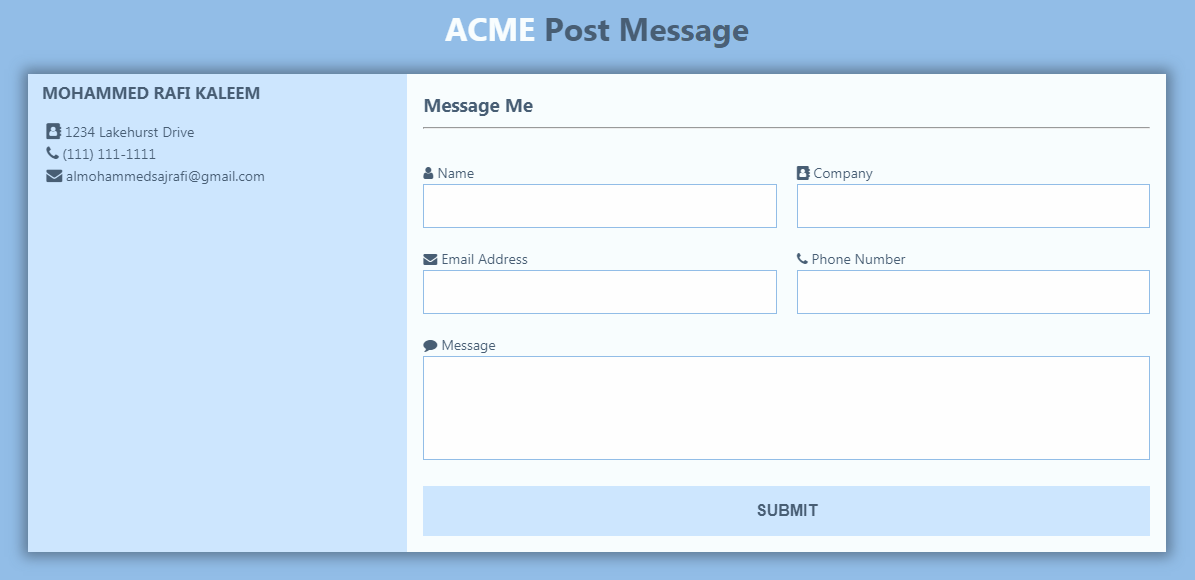
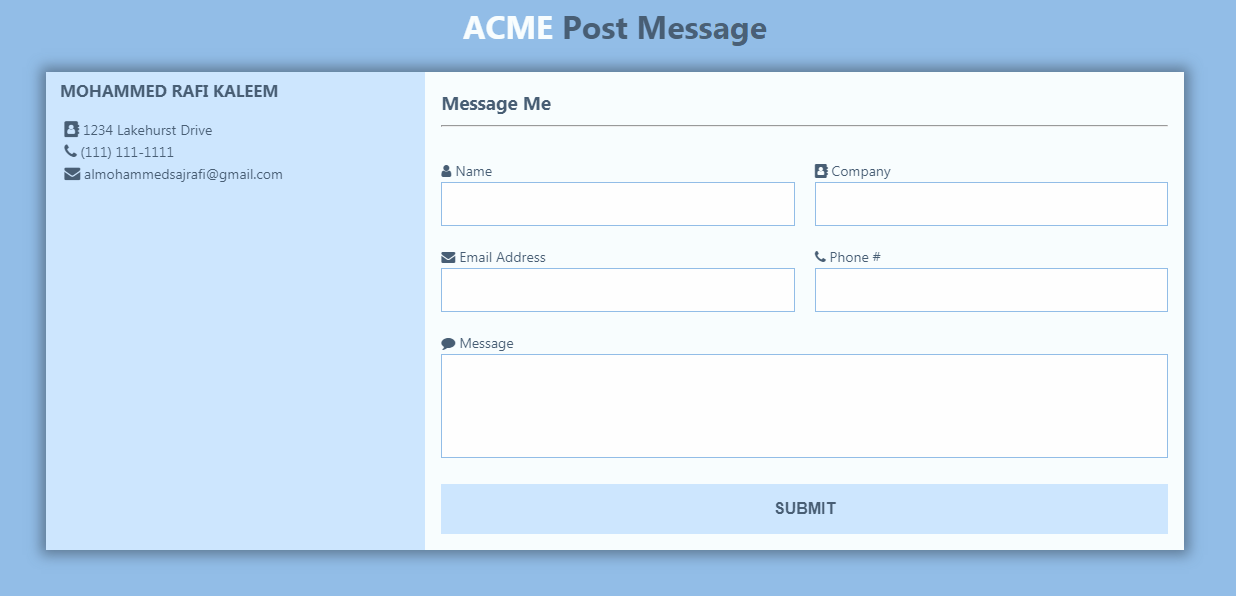
Updated the layout changes

Changed region(s): [[0.0, 0.0, 0.9908, 0.9931], [0.6502, 0.2793, 0.7431, 0.3103], [0.6192, 0.3103, 0.6502, 0.3414]]

diff --git a/styles.css b/styles.css
@@ -79,9 +79,12 @@ body {
 
 .panel-body form {
     display: grid;
-    grid-template-columns: 1fr 1fr;
     grid-gap: 20px;
 }
+
+    .panel-body form p {
+        grid-column: 1/3;
+    }
 
     .panel-body form label {
         display: block;
@@ -118,7 +121,7 @@ body {
             background: #92bde7;
             transition: background 2s ease-out;
         }
-         
+
 /** Large Screens **/
 @media(min-width: 700px) {
 
@@ -141,4 +144,12 @@ body {
             padding: 0 .3em;
             text-align: left;
         }
+
+    .panel-body form {
+        grid-template-columns: 1fr 1fr;
+    }
+
+    .panel-body form p {
+        grid-column: initial;
+    }
 }
